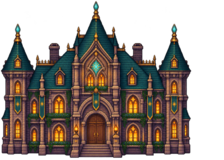
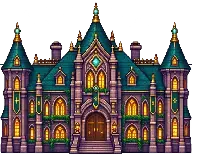
fix: fecha os vãos do telhado da Academia (trf-eter-009)
Terceira tentativa do Codex, agora aprovada: a fachada foi regenerada
do zero em pixel art (não mais um patch da versão anterior), reduzida
por nearest-neighbor pra 192×160 e inserida no mesmo canvas 224×160
com a mesma folga de 32px à direita de sempre — contrato de exportação
inalterado.

As duas tentativas anteriores (prb-eter-006, prb-eter-007) tinham sido
reprovadas por redesenhar a fachada inteira em vez de só fechar os
vãos, ou incluir checkerboard opaco. Esta preserva a composição
(torres pontudas, portão, janelas, paleta) e resolve o problema real:
o telhado agora tem massa contínua onde antes havia vão transparente
entre as torres.

Verificado pixel a pixel: a linha y=64 do canvas (onde a parede
genérica ficava visível antes) tem alpha médio de 97.7% opaco nas 192
colunas de arte — o pior caso é uma frincha de 1-2px em x≈31-32 e
x≈160 (anti-aliasing normal da silhueta, não um vão estrutural como
antes). A faixa de 32px à direita continua 100% transparente.

Composta ao vivo no Pátio, os dois lados da fachada, com zoom 3x: zero
tijolo genérico visível em qualquer ponto, telhado lê como uma massa
contínua. A porta continua alcançável (`isSolid(13,6)` segue `false`).

`12-maps.js` só teve o comentário do decor atualizado pra refletir o
estado atual — nenhuma mudança funcional (ainda `x:13, y:6`, sem
`solido`).

Gates completos (unittest 640 assets/42 scripts, build, validadores,
node --check, diff --check, auditoria de assets) + autoteste JS
[…]

diff --git a/src/scripts/world/12-maps.js b/src/scripts/world/12-maps.js
@@ -79,13 +79,9 @@ const MAPS = {
          tem 6 casas de largura (colunas 10-15) — LARGURA PAR, então o
          centro de verdade (coluna 12,5) cai ENTRE duas células, e
          nenhuma âncora inteira sozinha centra a imagem de 192px (6
-         casas) por conta própria: ancorada em x:13 (a porta), sobra
-         meia casa de tijolo genérico à mostra do lado esquerdo
-         (achado do usuário, 2º print). NÃO é pra corrigir isso com
-         deslocamento de desenho no código — a correção é pedir ao
-         Codex uma exportação com folga assimétrica no próprio arquivo
-         (ver `.agentes/prompt-arte-cenarios-codex.md` §4.6); até lá o
-         vão fica visível de propósito, sem gambiarra. */
+         casas) por conta própria. A peça traz 32px transparentes à
+         direita para compensar isso no próprio canvas; não use
+         deslocamento de desenho nem marque o decor como sólido. */
       {x:13, y:6,  s:'prop_academia_stone_reach',
        text:'A fachada da Academia ainda ostenta o brasão original, gasto pelo tempo mas legível.'},
       {x:18, y:20, s:'prop_portao_stone_reach',
